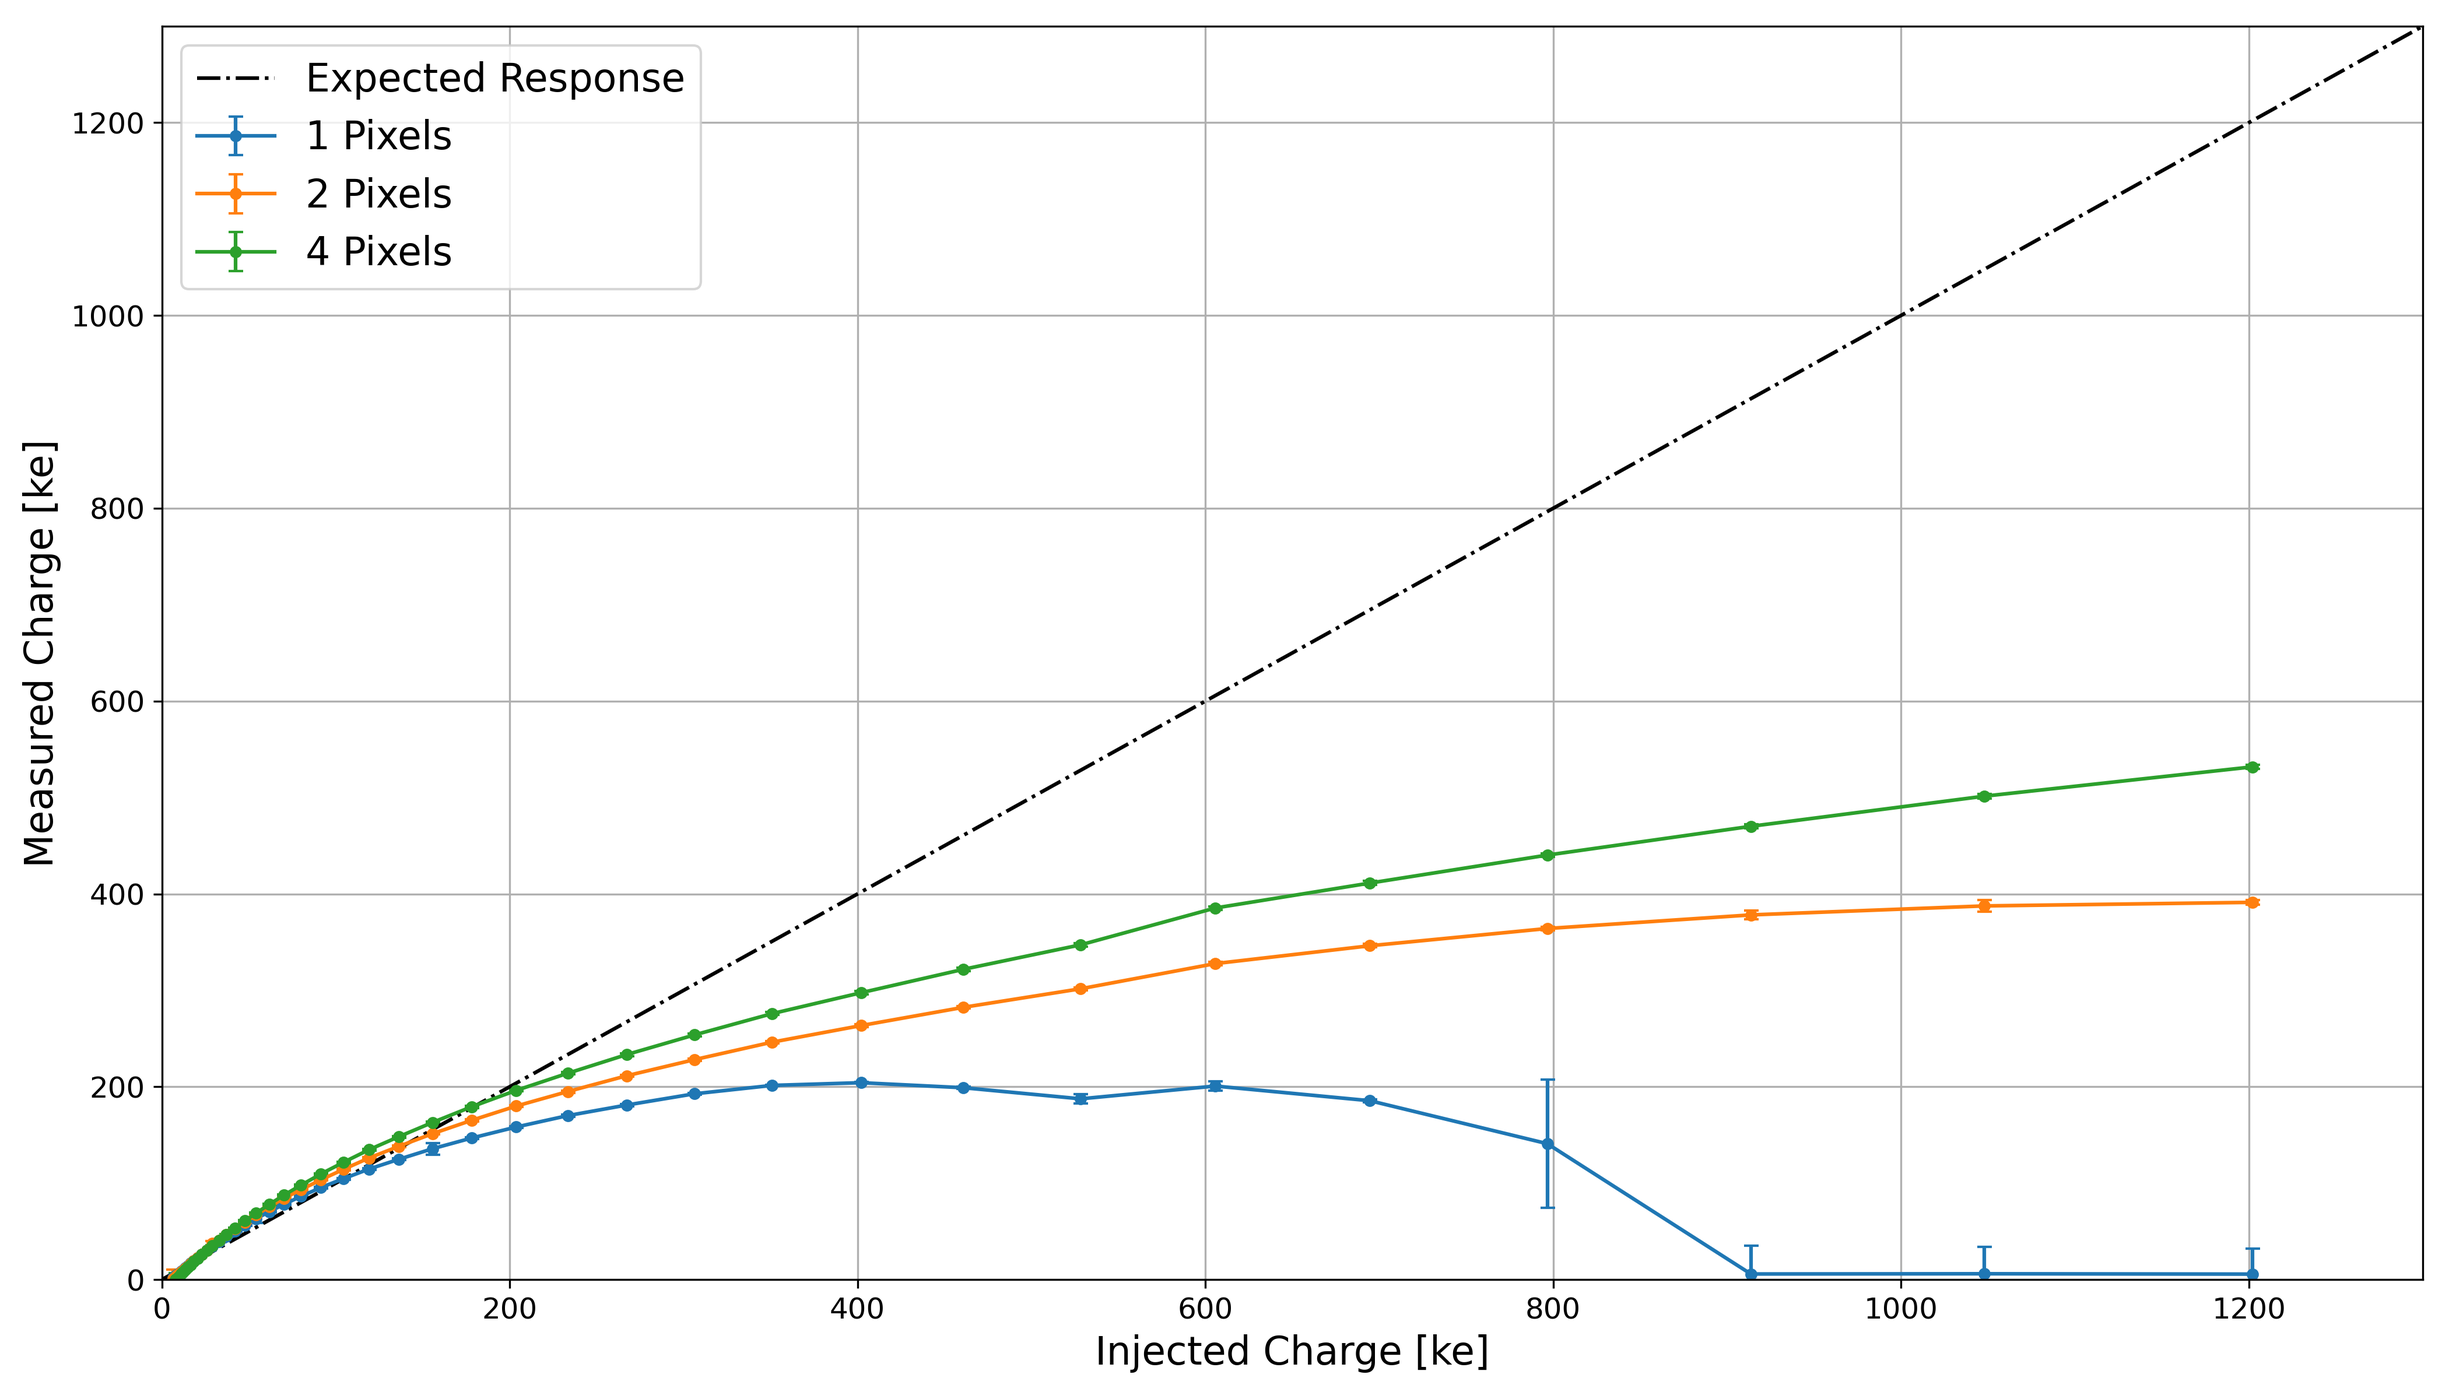
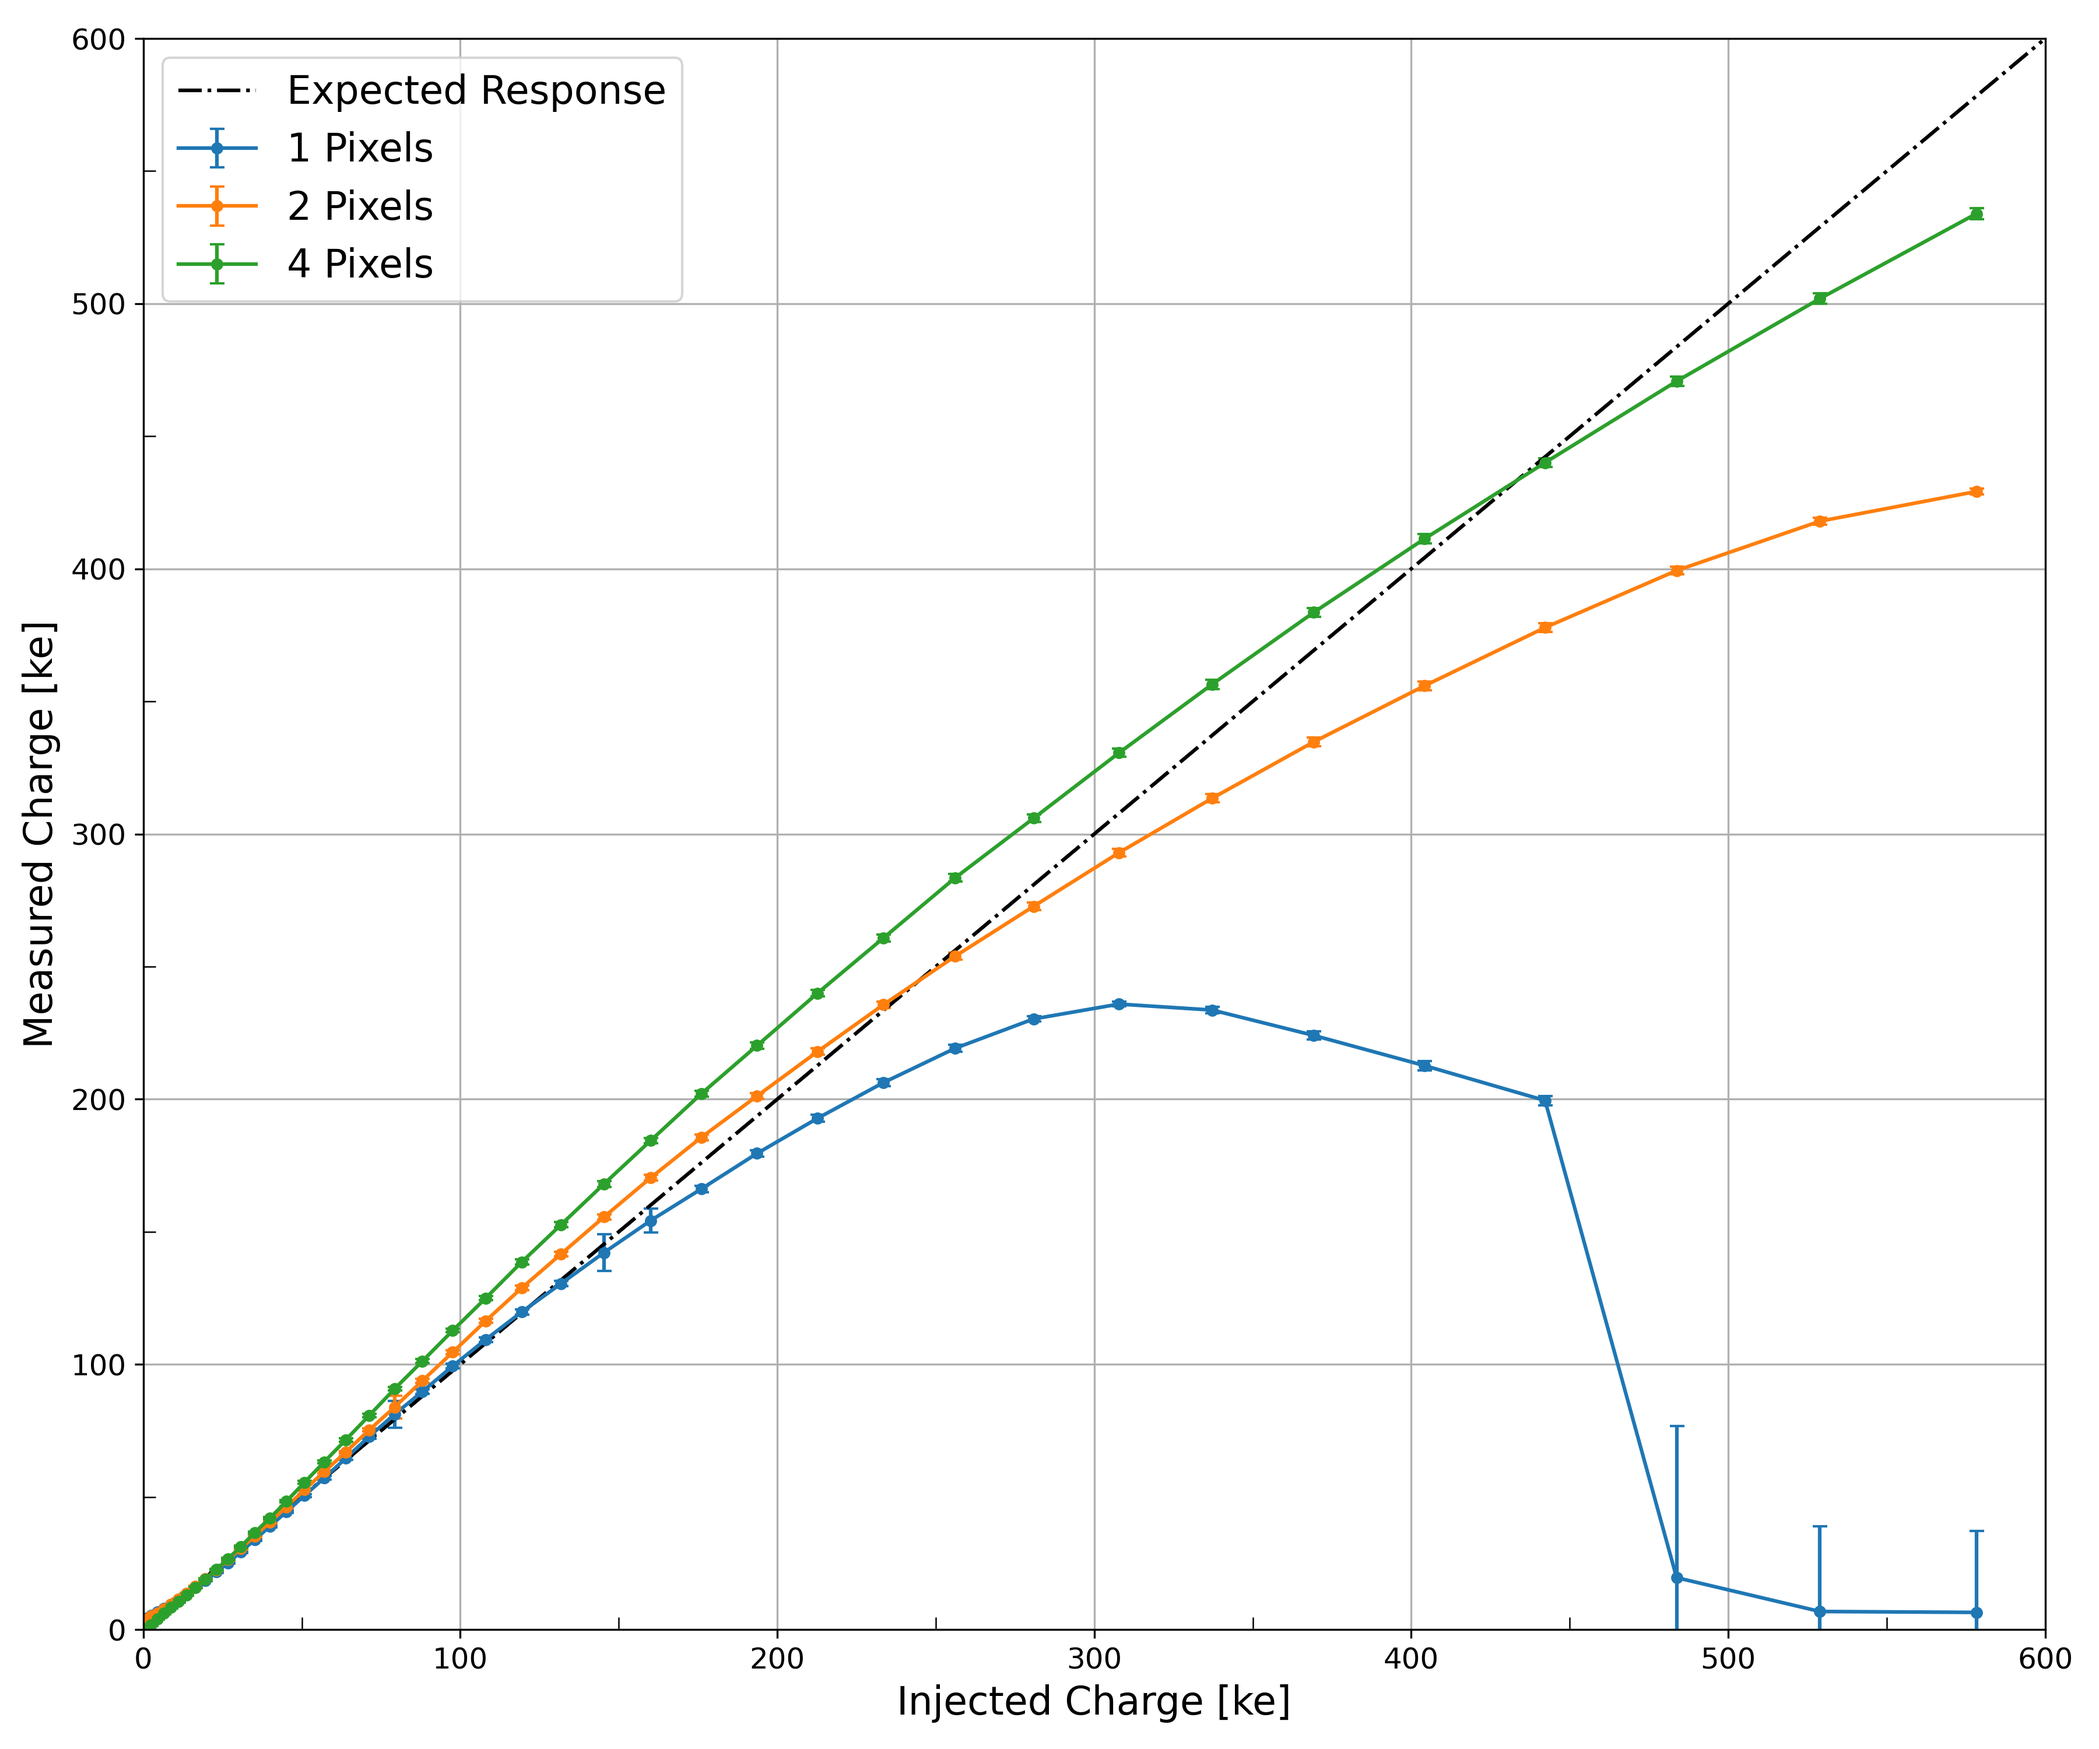
Refactor code structure for improved readability and maintainability

diff --git a/LaserMeasurements.py b/LaserMeasurements.py
@@ -2,53 +2,71 @@ from timepix4.laser_measurement import *
 
 
 def Process():
-    FolderPath = "Data/Laser Measurements/Laser Measurements 1 (228, 230)1"
+    # processall()
+
+    FolderPath = (
+        f"Data/Laser Measurements/Laser Measurements 1 (238, 240)"
+    )
     processor = Processor(
         FolderPath,
-        ROW=230,
-        COL=228,
-        # COL_Next=1,
-        # ROW_Next=-1
-        )
+        ROW=240,
+        COL=238,
+        COL_Next=1,
+        ROW_Next=-1,
+    )
     processor.ProcessFolder()
 
 
-def Plotter():
+def processall():
+    for col in [228, 238]:
+        for row in [230, 240]:
+            for x in ["1", "2", "4"]:
+                cnext = 0
+                rnext = 0
+                if x == "2":
+                    cnext = 1
+                    rnext = 0
+                elif x == "4":
+                    cnext = 1
+                    rnext = -1
+                FolderPath = (
+                    f"Data/Laser Measurements/Laser Measurements {x} ({col}, {row})"
+                )
+                processor = Processor(
+                    FolderPath,
+                    ROW=row,
+                    COL=col,
+                    COL_Next=cnext,
+                    ROW_Next=rnext,
+                )
+                processor.ProcessFolder()
 
-    folders = [
-        "Data/Laser Measurements/Laser Measurements 1/1Results(230, 228).csv",
-        # "Data/Laser Measurements/Laser Measurements 2/2Results(229, 228).csv",
-        "Data/Laser Measurements/Laser Measurements 2/2Results(230, 228).csv",
-        "Data/Laser Measurements/Laser Measurements 4/4Results(230, 228).csv",
-        # "Data/Laser Measurements/Laser Measurements 4/4Results(229, 228).csv",
-        # "Data/Laser Measurements/Laser Measurements 4/4Results(230, 229).csv",
-        # "Data/Laser Measurements/Laser Measurements 4/4Results(229, 229).csv",
+
+def Plotter():
+    folder_228_230 = [
+        "Data/Laser Measurements/Laser Measurements 1 (228, 230)/1Results(230, 228).csv",
+        "Data/Laser Measurements/Laser Measurements 2 (228, 230)/2Results(230, 228).csv",
+        "Data/Laser Measurements/Laser Measurements 4 (228, 230)/4Results(230, 228).csv",
     ]
-    # folders = [
-    #     "Data/Laser Measurements/Laser Measurements 1/1Results(230, 228).csv",
-    #     "Data/Laser Measurements/Laser Measurements 2/2AllPixels_SumResults.csv",
-    #     "Data/Laser Measurements/Laser Measurements 4/4AllPixels_SumResults.csv",
-    # ]
-    # ToTChargePlotter(folders)
-    # LaserPlotterMultiple(
+    folder_228_240 = [
+        "Data/Laser Measurements/Laser Measurements 1 (228, 240)/1Results(240, 228).csv",
+        "Data/Laser Measurements/Laser Measurements 2 (228, 240)/2Results(240, 228).csv",
+        "Data/Laser Measurements/Laser Measurements 4 (228, 240)/4Results(240, 228).csv",
+    ]
+    folder_238_230 = [
+        "Data/Laser Measurements/Laser Measurements 1 (238, 230)/1Results(230, 238).csv",
+        "Data/Laser Measurements/Laser Measurements 2 (238, 230)/2Results(230, 238).csv",
+        "Data/Laser Measurements/Laser Measurements 4 (238, 230)/4Results(230, 238).csv",
+    ]
+    folder_238_240 = [
+        "Data/Laser Measurements/Laser Measurements 1 (238, 240)/1Results(240, 238).csv",
+        "Data/Laser Measurements/Laser Measurements 2 (238, 240)/2Results(240, 238).csv",
+        "Data/Laser Measurements/Laser Measurements 4 (238, 240)/4Results(240, 238).csv",
+    ]
     LaserPlotter(
-        # "Data/Laser Measurements/Laser Measurements 1 V3/1Results(240, 238).csv",
-        # "Data/Laser Measurements/Laser Measurements 2 V3/2Results(240, 238).csv",
-        # "Data/Laser Measurements/Laser Measurements 4 V3/4Results(240, 238).csv",
-        # "Data/Laser Measurements/Laser Measurements 1/1Results(230, 228).csv",
-        # "Data/Laser Measurements/Laser Measurements 2/2Results(230, 228).csv",
-        # "Data/Laser Measurements/Laser Measurements 4/4Results(230, 228).csv",
-        # "Data/Laser Measurements/Laser Measurements 1 (228, 240)/1Results(240, 228).csv",
-        # "Data/Laser Measurements/Laser Measurements 2 (228, 240)/2Results(240, 228).csv",
-        # "Data/Laser Measurements/Laser Measurements 4 (228, 240)/4Results(240, 228).csv",
-        "Data/Laser Measurements/Laser Measurements 1 (228, 230)1/1Results(230, 228).csv",
-        "Data/Laser Measurements/Laser Measurements 2 (228, 230)1/2Results(230, 228).csv",
-        "Data/Laser Measurements/Laser Measurements 4 (228, 230)1/4Results(230, 228).csv",
+        [folder_228_230, folder_228_240, folder_238_230, folder_238_240],
         value="clCharge Calibrated",
     )
-    # CompareMethodsPlotter(
-    #     "Data/Laser Measurements/Laser Measurements 1/1Results(230, 228).csv"
-    # )
 
 
 def main():

diff --git a/timepix4/laser_measurement/plotter.py b/timepix4/laser_measurement/plotter.py
@@ -1,67 +1,77 @@
 import pandas as pd
 import matplotlib.pyplot as plt
+import matplotlib.ticker as ticker
 import numpy as np
 
 
-def LaserPlotter(file1, file2, file3, value: str = "Tot") -> None:
-    pixel = file1.split("/")[-1].split(".")[0].split("s")[-1]
+def LaserPlotter(folder: list[list[str]], value: str = "Tot") -> None:
     lookuptable = pd.read_csv("lookup_table.csv")
-    # lookuptable = pd.read_csv(f"lookup_table(230, 228).csv")
     lookuptable = lookuptable.sort_values("voltage", ascending=True)
     lookuptable["Charge"] = lookuptable["relative_factor"].apply(lambda x: x * 16.5)
-    plt.subplots(figsize=(14, 8))
-    df1 = pd.read_csv(file1)
-    df2 = pd.read_csv(file2)
-    df3 = pd.read_csv(file3)
 
-    if value == "Tot" or value == "clTot":
-        plt.xlim(0, 400)
-        plt.ylim(0, 2000)
-        plt.xlabel("Injected Charge [ke]", fontsize=16)
-        plt.ylabel("ToT [25 ns]", fontsize=16)
-        plt.xticks(fontsize=12)
-        plt.yticks(fontsize=12)
-        # plt.title(f"{value} vs Injected Charge (Pixel (228, 230))", fontsize=18)
-    elif value == "clCharge" or value == "Charge Raw" or value == "clCharge Calibrated":
-        # plt.xlim(0, 100)
-        # plt.ylim(0, 100)
-        plt.xlim(0, 1300)
-        plt.ylim(0, 1300)
-        plt.xlabel("Injected Charge [ke]", fontsize=16)
-        plt.ylabel("Measured Charge [ke]", fontsize=16)
-        plt.xticks(fontsize=12)
-        plt.yticks(fontsize=12)
-        # plt.title(f"clCharge Manually Calibrated vs Injected Charge (Pixel ({pixel}))", fontsize=18)
+    for pixel in folder:
+        file1 = pixel[0]
+        file2 = pixel[1]
+        file3 = pixel[2]
+        Pixel = file1.split("/")[-2].split("1")[-1].split(" ", 1)[-1]
+        fig, ax = plt.subplots(figsize=(12, 10))
+        df1 = pd.read_csv(file1)
+        df2 = pd.read_csv(file2)
+        df3 = pd.read_csv(file3)
 
-    for df, pixels in zip([df1, df2, df3], [1, 2, 4]):
-        if len(df) < len(lookuptable):
-            lut = lookuptable.iloc[: len(df)]
-        else:
-            lut = lookuptable
+        if value == "Tot" or value == "clTot":
+            plt.xlim(0, 400)
+            plt.ylim(0, 2000)
+            plt.xlabel("Injected Charge [ke]", fontsize=16)
+            plt.ylabel("ToT [25 ns]", fontsize=16)
+            plt.xticks(fontsize=12)
+            plt.yticks(fontsize=12)
+        elif value == "clCharge" or value == "Charge Raw" or value == "clCharge Calibrated":
+            # plt.xlim(0, 100)
+            # plt.ylim(0, 100)
+            plt.xlim(0, 600)
+            plt.ylim(0, 600)
+            plt.xlabel("Injected Charge [ke]", fontsize=16)
+            plt.ylabel("Measured Charge [ke]", fontsize=16)
+            plt.xticks(fontsize=12)
+            plt.yticks(fontsize=12)
 
-        plt.errorbar(
-            lut["Charge"],
-            df[f"Mean {value}"],
-            yerr=df[f"Std {value}"],
-            fmt="o",
-            markersize=4,
-            linestyle="-",
-            label=f"{pixels} Pixels",
-            capsize=3,
+        for df, pixels in zip([df1, df2, df3], [1, 2, 4]):
+            if len(df) < len(lookuptable):
+                lut = lookuptable.iloc[: len(df)]
+            else:
+                lut = lookuptable
+
+            plt.errorbar(
+                lut["Charge"],
+                df[f"Mean {value}"],
+                yerr=df[f"Std {value}"],
+                fmt="o",
+                markersize=4,
+                linestyle="-",
+                label=f"{pixels} Pixels",
+                capsize=3,
+            )
+
+        plt.plot(
+            np.arange(0, 600, 1),
+            np.arange(0, 600, 1),
+            linestyle="dashdot",
+            color="black",
+            label="Expected Response",
         )
+        # ax.xaxis.set_minor_locator(ticker.MultipleLocator(50))
+        # ax.yaxis.set_minor_locator(ticker.MultipleLocator(50))
+        ax.xaxis.set_minor_locator(ticker.MultipleLocator(50))
+        ax.yaxis.set_minor_locator(ticker.MultipleLocator(50))
+        ax.tick_params(axis="both", which="minor", length=5)
+        ax.tick_params(axis="both", which="minor", direction="in", labelbottom=False)
 
-    plt.plot(
-        np.arange(0, 1600, 1),
-        np.arange(0, 1600, 1),
-        linestyle="dashdot",
-        color="black",
-        label="Expected Response",
-    )
-    plt.legend(fontsize=16)
-    plt.grid()
-    plt.tight_layout()
-    plt.savefig(f"{value}_vs_InjectedCharge.png", dpi=300)
-    plt.show()
+        plt.legend(fontsize=16)
+        plt.grid()
+        plt.tight_layout()
+        plt.savefig(f"{Pixel}{value}_vs_InjectedCharge.png", dpi=300)
+        plt.show()
 
 
 def LaserPlotterMultiple(file1, file2: str, file3: str, value: str) -> None:

diff --git a/timepix4/laser_power/fit_curve.py b/timepix4/laser_power/fit_curve.py
@@ -24,26 +24,39 @@ def fit_curve(df: pd.DataFrame, V_ref: float):
         'figure.titlesize': 20
     })
     df_copy = df.copy()
-    df = df[((df["V"] >= 3.0) & (df["V"] <= 4.0))]
+    df = df[((df["V"] >= 2.9) & (df["V"] <= 4.2))]
     P = df["power"].to_numpy()
     V = df["V"].to_numpy()
 
+    sigma = 1 / V
     popt, pcov = curve_fit(
         fit_func,
         V,
         P,
         p0=[50, 1.0 / (np.ptp(V)), 0.01],
+        # sigma=sigma,
+        # bounds=([0, 0, 0], [np.inf, np.inf, np.inf]),
     )
 
-    # plot
-    Vfine = np.linspace(2.8, 4.0, 200)
+    # # Evaluate fit quality
+    # residuals = P - fit_func(V, *popt)
+    # chi2 = np.sum((residuals / sigma) ** 2)
+    # dof = len(P) - len(popt)
+    # red_chi2 = chi2 / dof
+    # ss_res = np.sum(residuals ** 2)
+    # ss_tot = np.sum((P - np.mean(P)) ** 2)
+    # r2 = 1 - (ss_res / ss_tot)
+    # print(f"Chi-squared: {chi2:.2f}, dof: {dof}, reduced chi-squared: {red_chi2:.2f}, R²: {r2:.4f}")
+
+    Vfine = np.linspace(2.9, 4.0, 200)
     plt.figure(figsize=(12, 8))
     plt.scatter(df_copy["V"].to_numpy(), df_copy["power"].to_numpy(), marker="o", color="b")
     plt.plot(Vfine, fit_func(Vfine, *popt), linestyle="-", color="orange", label=f"Fit parameters: A = {popt[0]:.3g}, k = {popt[1]:.3g}, C ={popt[2]:.3g}")
     plt.xlabel("Attenuation Voltage [V]")
     plt.ylabel("Power [$\mu$W]")
-    plt.xlim(2.8, 4)
-    plt.ylim(0, 30)
+    plt.xlim(2.9, 4.0)
+    plt.ylim(-1, 15)
+    plt.yticks(np.arange(0, 16, 3))
     plt.legend()
     # plt.title("Power vs Voltage")
     plt.grid()
@@ -51,11 +64,11 @@ def fit_curve(df: pd.DataFrame, V_ref: float):
     plt.savefig("PowerVsVoltage.png", dpi=300)
     plt.show()
 
-    # P_ref = fit_func(V_ref, *popt)
-    # Vs = np.linspace(4.0, 2.9, int(round((4.0 - 2.9) / 0.025)) + 1)
-    # Vs = np.round(Vs, 3)
-    # factors = fit_func(Vs, *popt) / P_ref
-    # lut = pd.DataFrame({"voltage": Vs, "relative_factor": factors})
-    # lut.to_csv("lookup_table.csv", index=False)
+    P_ref = fit_func(V_ref, *popt)
+    Vs = np.linspace(4.0, 2.9, int(round((4.0 - 2.9) / 0.025)) + 1)
+    Vs = np.round(Vs, 3)
+    factors = fit_func(Vs, *popt) / P_ref
+    lut = pd.DataFrame({"voltage": Vs, "relative_factor": factors})
+    lut.to_csv("lookup_table.csv", index=False)
 
     # PlotRelativePower("lookup_table.csv")

diff --git a/timepix4/focus/plotter.py b/timepix4/focus/plotter.py
@@ -281,7 +281,7 @@ class ScanPlotter:
         # )
         lines, labels = ax.get_legend_handles_labels()
         lines2, labels2 = ax2.get_legend_handles_labels()
-        ax.legend(lines + lines2, labels + labels2, loc="center right", fontsize=14)
+        ax.legend(lines + lines2, labels + labels2, loc="best", fontsize=14)
         ax.grid(True)
         # plt.xlim(42.275, 42.50)
         # plt.xlim(18.125, 18.325)

diff --git a/Focus.py b/Focus.py
@@ -2,7 +2,7 @@ from timepix4.focus import FocusProcessor, ScanPlotter, HitmapVisualizer
 
 
 def main():
-    # focus = FocusProcessor(AttenuationVoltage=3.5, direction="y")
+    # focus = FocusProcessor(AttenuationVoltage=3.5, direction="z")
     # focus.ProcessAll()
     plotter = ScanPlotter(direction="z", AttenuationVoltage=3.5, ROW=230, COL=228)
     plotter.Plot_ToT()

diff --git a/LaserPower.py b/LaserPower.py
@@ -2,7 +2,8 @@ from timepix4.laser_power import *
 
 
 def main():
-    filepath = "Data/Laser Power/Power.csv"
+    filepath = "Data/Laser Power/PowerBest.csv"
+    # filepath = "Data/Laser Power/Power.csv"
     # PowerVoltagePlot(filepath)
     # filepath = "Data/Laser Power/laser_power_933nm.csv"
     CreateLookupTable(filepath, 3.725)
